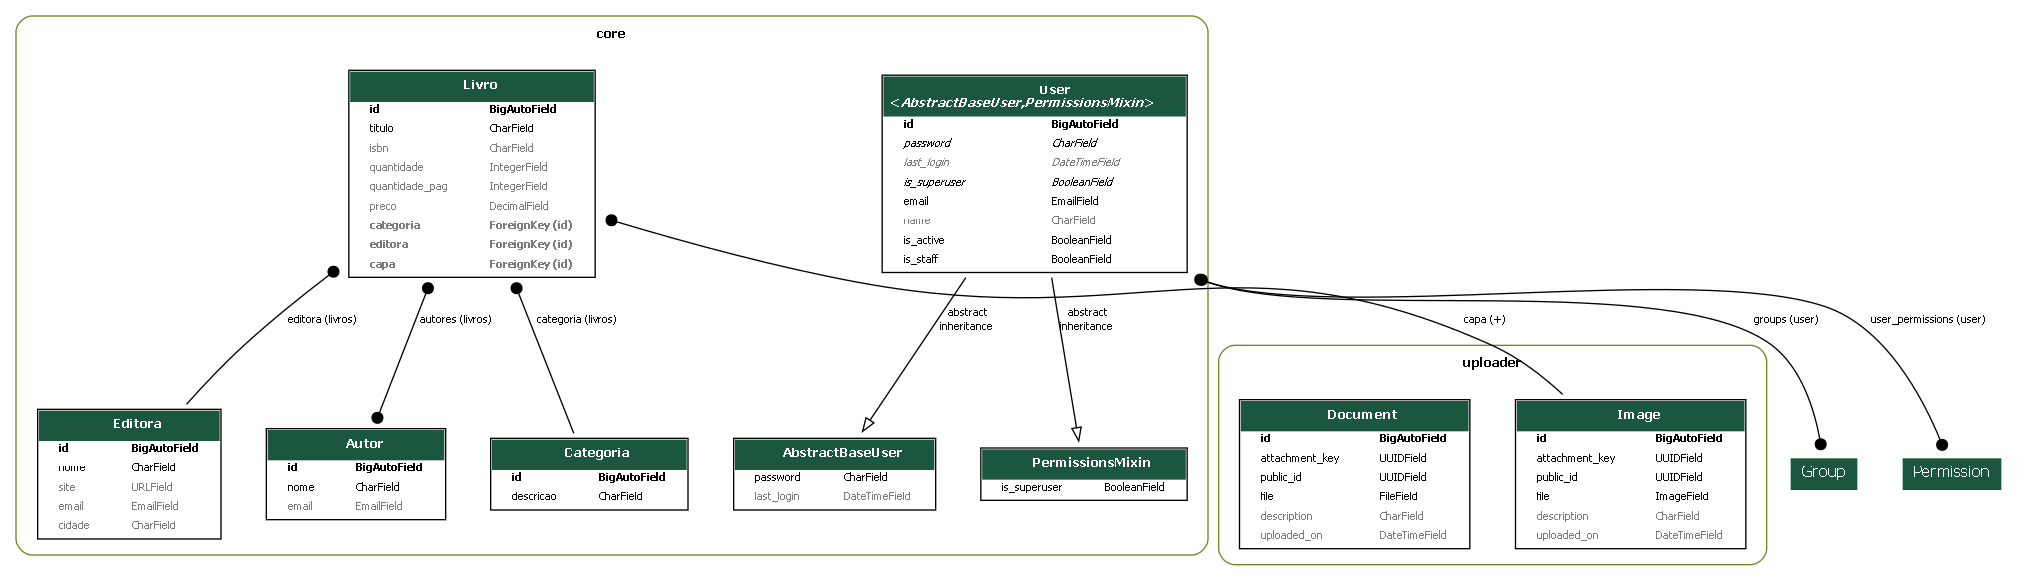
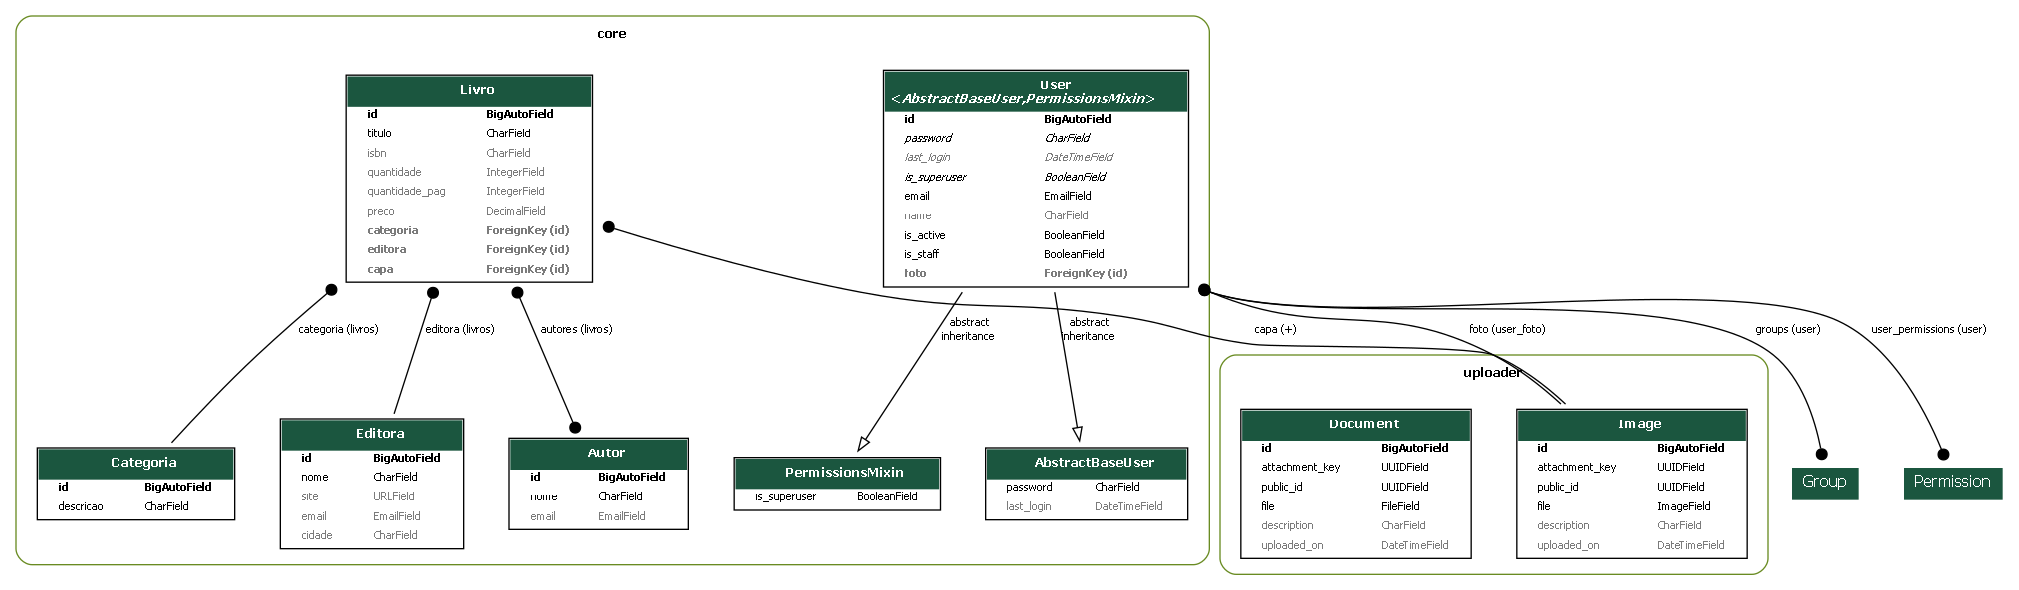
feat: inclusão da foto de perfil no usuário

Changed region(s): [[0.0, 0.0929, 0.9995, 0.9914], [0.1249, 0.0929, 0.3436, 0.5886], [0.0312, 0.0, 0.5935, 0.031]]

diff --git a/core/serializers/user.py b/core/serializers/user.py
@@ -1,14 +1,27 @@
 from rest_framework import serializers
-from rest_framework.serializers import ModelSerializer
+from rest_framework.serializers import ModelSerializer, SlugRelatedField
 
 from core.models import User
+from uploader.models import Image
+from uploader.serializers import ImageSerializer
 
 
 class UserSerializer(ModelSerializer):
+    foto_attachment_key = SlugRelatedField(
+        source='foto',
+        queryset=Image.objects.all(),
+        slug_field='attachment_key',
+        required=False,
+        write_only=True,
+    )
+    foto = ImageSerializer(
+        required=False,
+        read_only=True
+    )
+
     class Meta:
         model = User
-        fields = ['id', 'email', 'name', 'is_active', 'is_staff', 'is_superuser', 'last_login', 'groups']
-        depth = 1
+        fields = '__all__'
 
 
 class UserRegistrationSerializer(ModelSerializer):

diff --git a/app/settings.py b/app/settings.py
@@ -150,7 +150,15 @@ REST_FRAMEWORK = {
     'DEFAULT_PAGINATION_CLASS': 'app.pagination.CustomPagination',
     'DEFAULT_SCHEMA_CLASS': 'drf_spectacular.openapi.AutoSchema',
     'PAGE_SIZE': 10,
+    # 'DEFAULT_PERMISSION_CLASSES': [
+    #     'rest_framework.permissions.IsAuthenticated',
+    # ]
+    'DEFAULT_PERMISSION_CLASSES': ('rest_framework.permissions.DjangoModelPermissionsOrAnonReadOnly', ),
+    "DEFAULT_AUTHENTICATION_CLASSES": ("rest_framework_simplejwt.authentication.JWTAuthentication",),
+    "DEFAULT_PERMISSION_CLASSES": ("rest_framework.permissions.DjangoModelPermissionsOrAnonReadOnly",),
 }
+
+
 
 # Configurações do Simple JWT
 SIMPLE_JWT = {

diff --git a/core/admin.py b/core/admin.py
@@ -52,7 +52,7 @@ class UserAdmin(BaseUserAdmin):
     list_display = ['email', 'name']
     fieldsets = (
         (None, {'fields': ('email', 'password')}),
-        (_('Personal Info'), {'fields': ('name',)}),
+        (_('Personal Info'), {'fields': ('name', 'foto')}),
         (
             _('Permissions'),
             {
@@ -66,6 +66,7 @@ class UserAdmin(BaseUserAdmin):
         (_('Important dates'), {'fields': ('last_login',)}),
         (_('Groups'), {'fields': ('groups',)}),
         (_('User Permissions'), {'fields': ('user_permissions',)}),
+        
     )
     readonly_fields = ['last_login']
     add_fieldsets = (

diff --git a/core/migrations/0014_user_foto.py b/core/migrations/0014_user_foto.py
@@ -1,0 +1,20 @@
+# Generated by Django 5.2.13 on 2026-05-12 17:27
+
+import django.db.models.deletion
+from django.db import migrations, models
+
+
+class Migration(migrations.Migration):
+
+    dependencies = [
+        ('core', '0013_alter_livro_preco'),
+        ('uploader', '0001_initial'),
+    ]
+
+    operations = [
+        migrations.AddField(
+            model_name='user',
+            name='foto',
+            field=models.ForeignKey(blank=True, default=None, null=True, on_delete=django.db.models.deletion.SET_NULL, related_name='user_foto', to='uploader.image'),
+        ),
+    ]

diff --git a/core/models/user.py b/core/models/user.py
@@ -9,6 +9,7 @@ from django.contrib.auth.models import (
 )
 from django.db import models
 from django.utils.translation import gettext_lazy as _
+from uploader.models import Image
 
 
 class UserManager(BaseUserManager):
@@ -52,6 +53,15 @@ class User(AbstractBaseUser, PermissionsMixin):
     )
 
     objects = UserManager()
+    
+    foto = models.ForeignKey(
+        Image,
+        related_name='user_foto',
+        on_delete=models.SET_NULL,
+        null=True,
+        blank=True,
+        default=None,
+        )
 
     USERNAME_FIELD = 'email'
     REQUIRED_FIELDS = []

diff --git a/core/views/categoria.py b/core/views/categoria.py
@@ -1,9 +1,12 @@
 from rest_framework.viewsets import ModelViewSet
+# from rest_framework.permissions import IsAuthenticated
 
 from core.models import Categoria
 from core.serializers import CategoriaSerializer
 
 
 class CategoriaViewSet(ModelViewSet):
+    # permission_classes = [IsAuthenticated]
     queryset = Categoria.objects.all()
     serializer_class = CategoriaSerializer
+    
